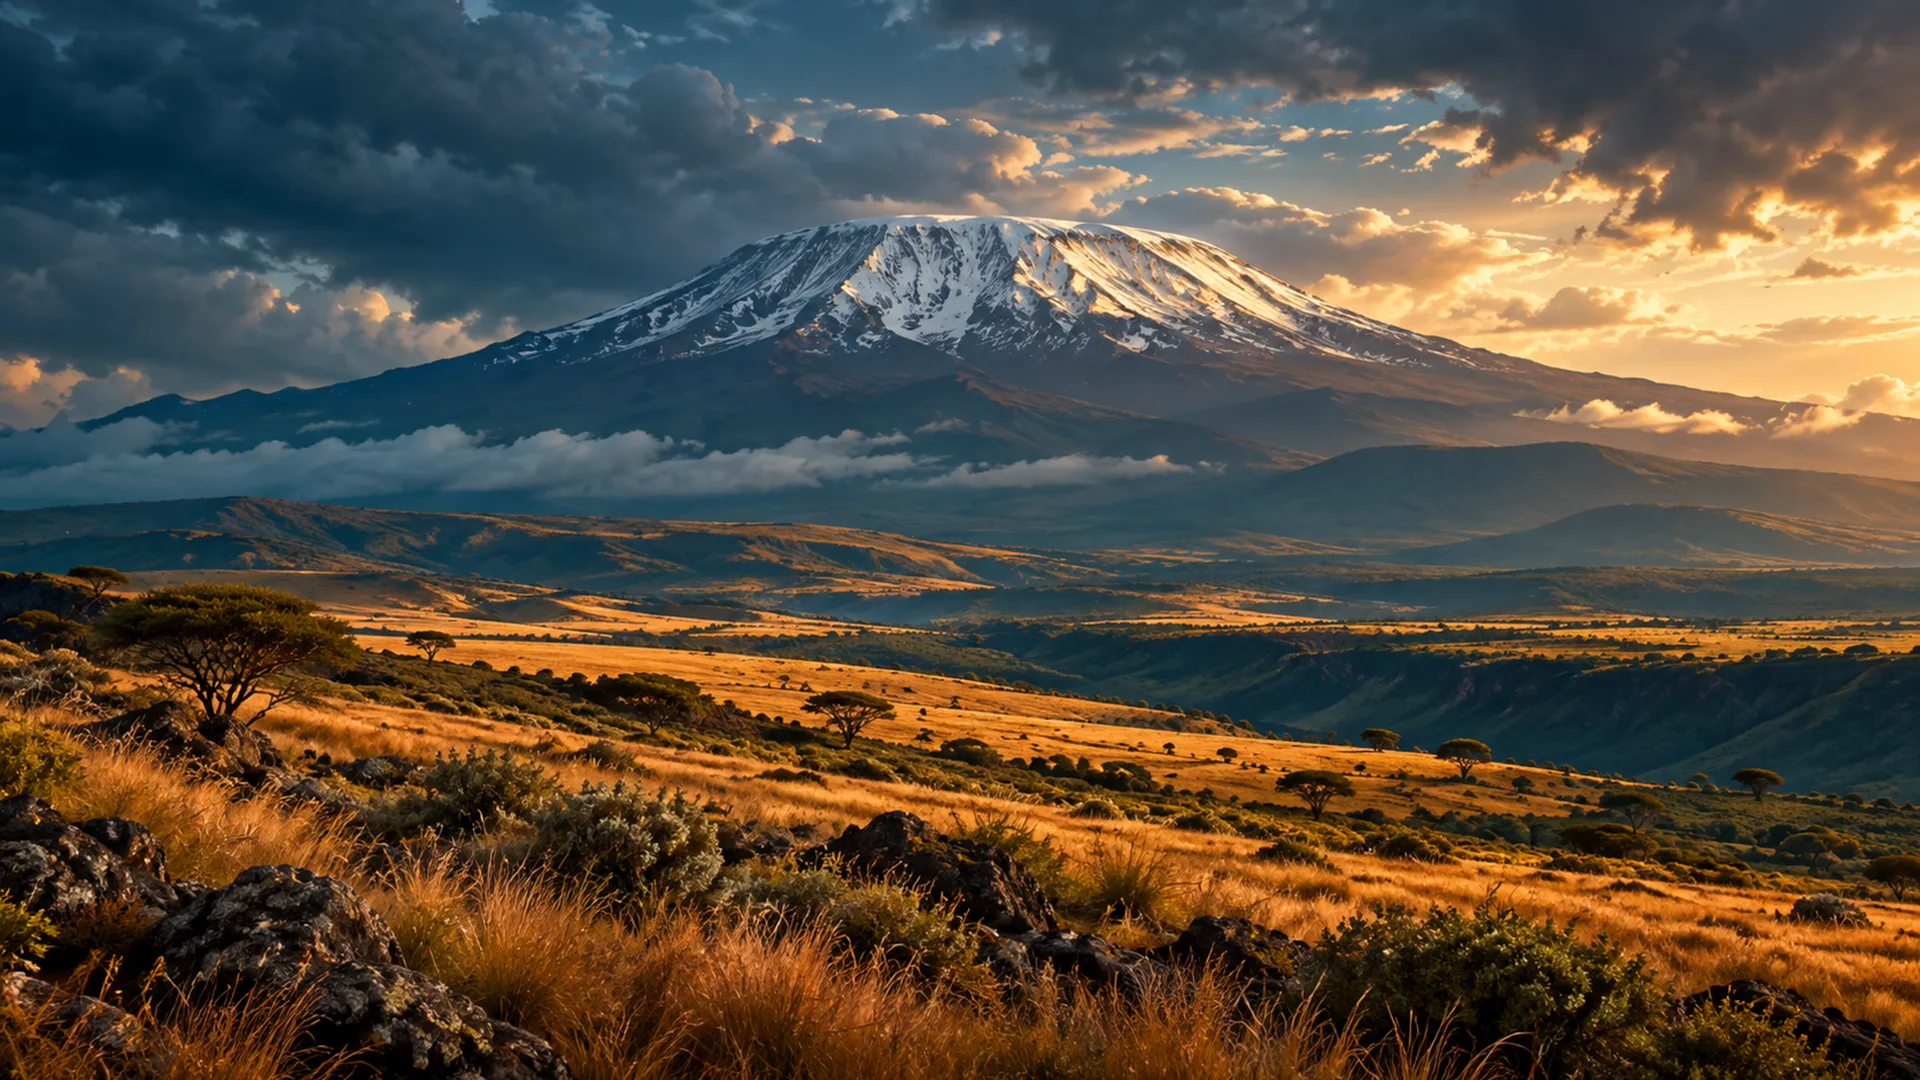
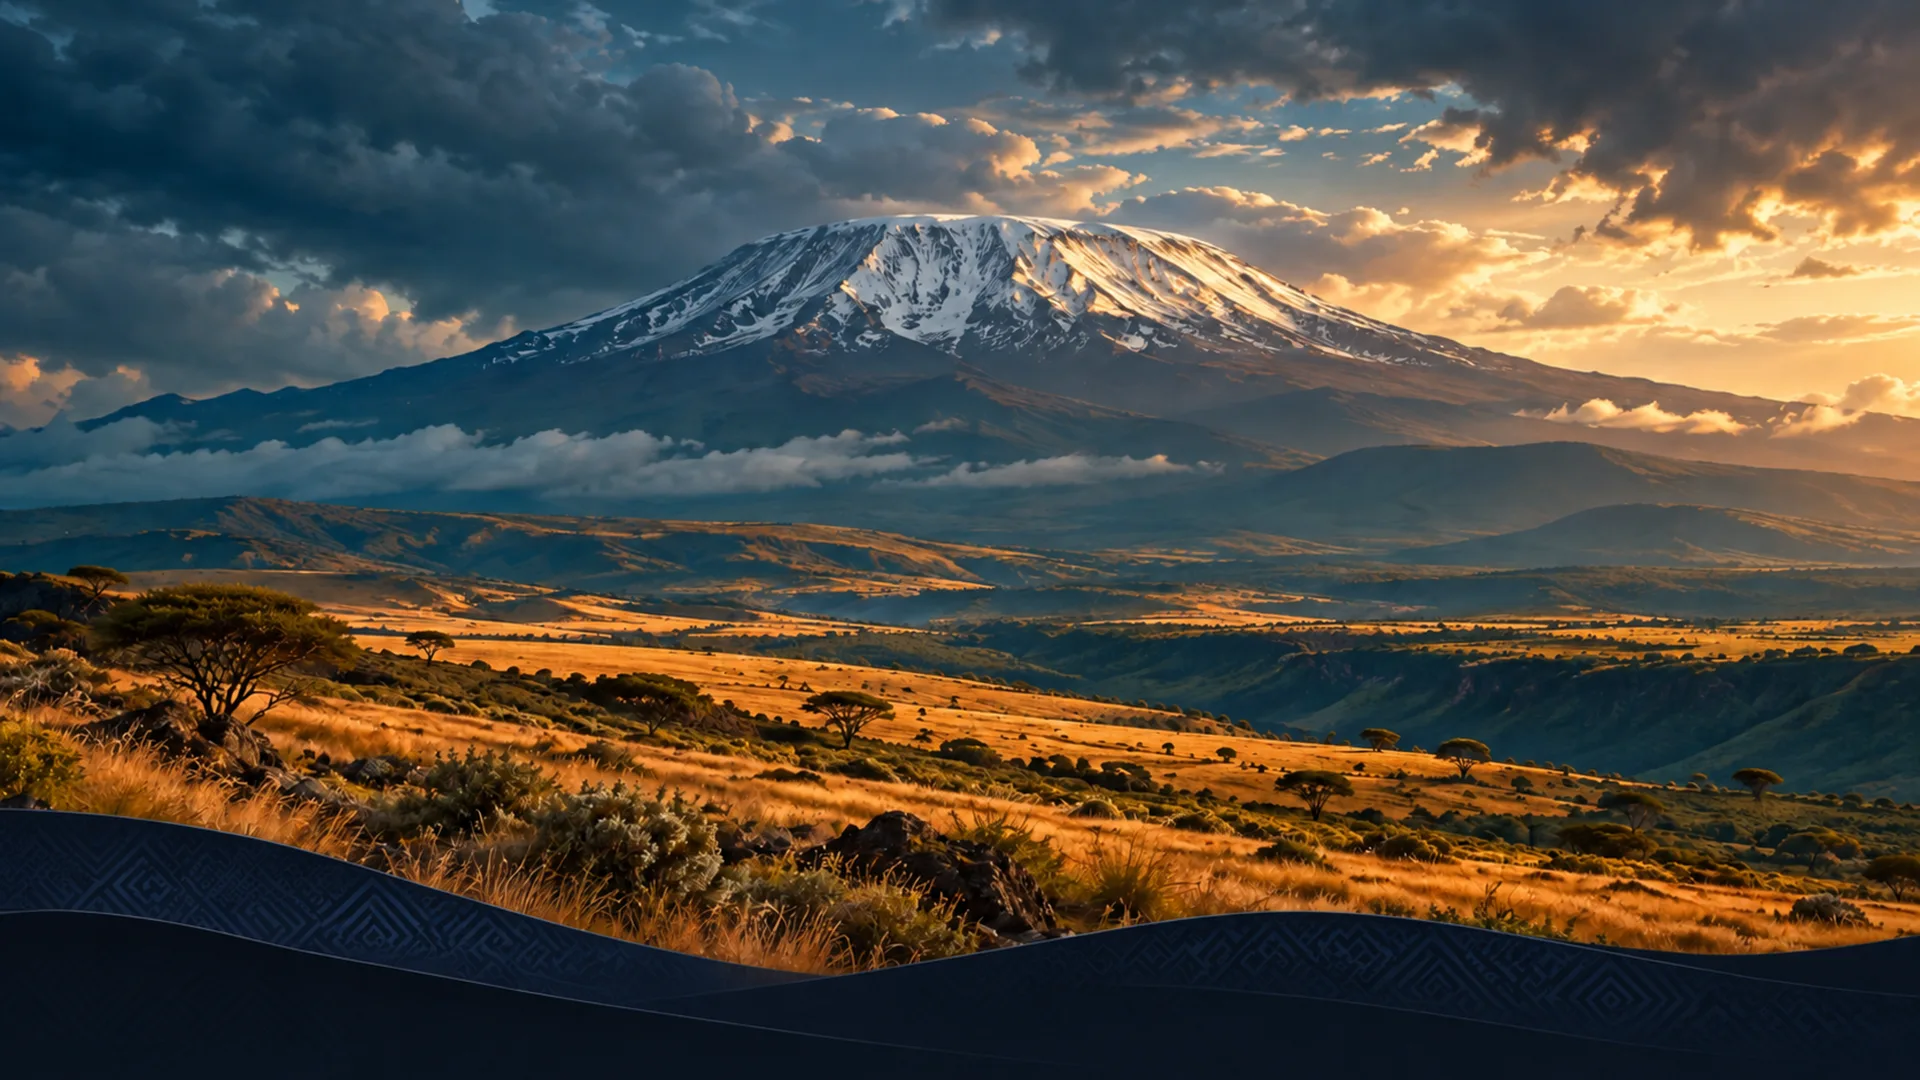
Restore Kilimanjaro identity ribbon on new wallpapers

diff --git a/docs/WALLPAPERS.md b/docs/WALLPAPERS.md
@@ -26,6 +26,10 @@ copyright or other licensable rights apply. Existing assets retain their metadat
 | Kilimanjaro-Amber-Highlands | Copper grasses and clearing afternoon storm clouds |
 | Kilimanjaro-Violet-Twilight | Rose/violet evening with a subtle rock inscription |
 
+All five additions include the Kilimanjaro identity ribbon: overlapping dark
+curved bands with a muted geometric diamond/chevron pattern along the lower edge,
+matching the original sunset wallpaper. The original six packages are unchanged.
+
 Violet Twilight contains the exact requested name **Poka Machande** as a small,
 low-contrast inscription on the bottom-right foreground rock. It is a personal
 artwork detail, not a replacement for upstream software author credits.
@@ -56,6 +60,26 @@ buildings, logos, watermark or collage. No text except the requested inscription
    on a dark foreground rock near the bottom right, charcoal-on-slate, integrated
    into the rock texture, about 5% of image width, discoverable on close inspection.
    Spell P-o-k-a M-a-c-h-a-n-d-e; not a large title, banner or bright overlay.
+
+## Identity-ribbon editing prompt
+
+The built-in image-generation tool edited each new wallpaper individually,
+using that scene as Image 1 (edit target) and the original sunset wallpaper as
+Image 2 (brand-motif reference). Shared prompt:
+
+> Change only the bottom foreground by adding the signature broad dark flowing
+> ribbon from Image 2: two graceful overlapping wave-shaped bands across the
+> lower 18 percent, a muted indigo geometric woven diamond/chevron pattern inside
+> the curved band and a very thin blue-grey contour edge. Match the reference
+> shape, understated contrast and refined integrated look, not a bright border.
+> Preserve the target's mountain, sky, landscape, lighting, colors and composition
+> above the band. No text, logos, watermark or extra objects. Single full-bleed
+> 16:9 wallpaper.
+
+For Violet Twilight the prompt additionally required preserving the exact subtle
+“Poka Machande” inscription on its bottom-right rock, routing the ribbon around
+it or retaining the rock naturally in front. All five edits were visually checked
+before replacing the project assets. Previous versions remain in Git history.
 
 ## Build status
 
